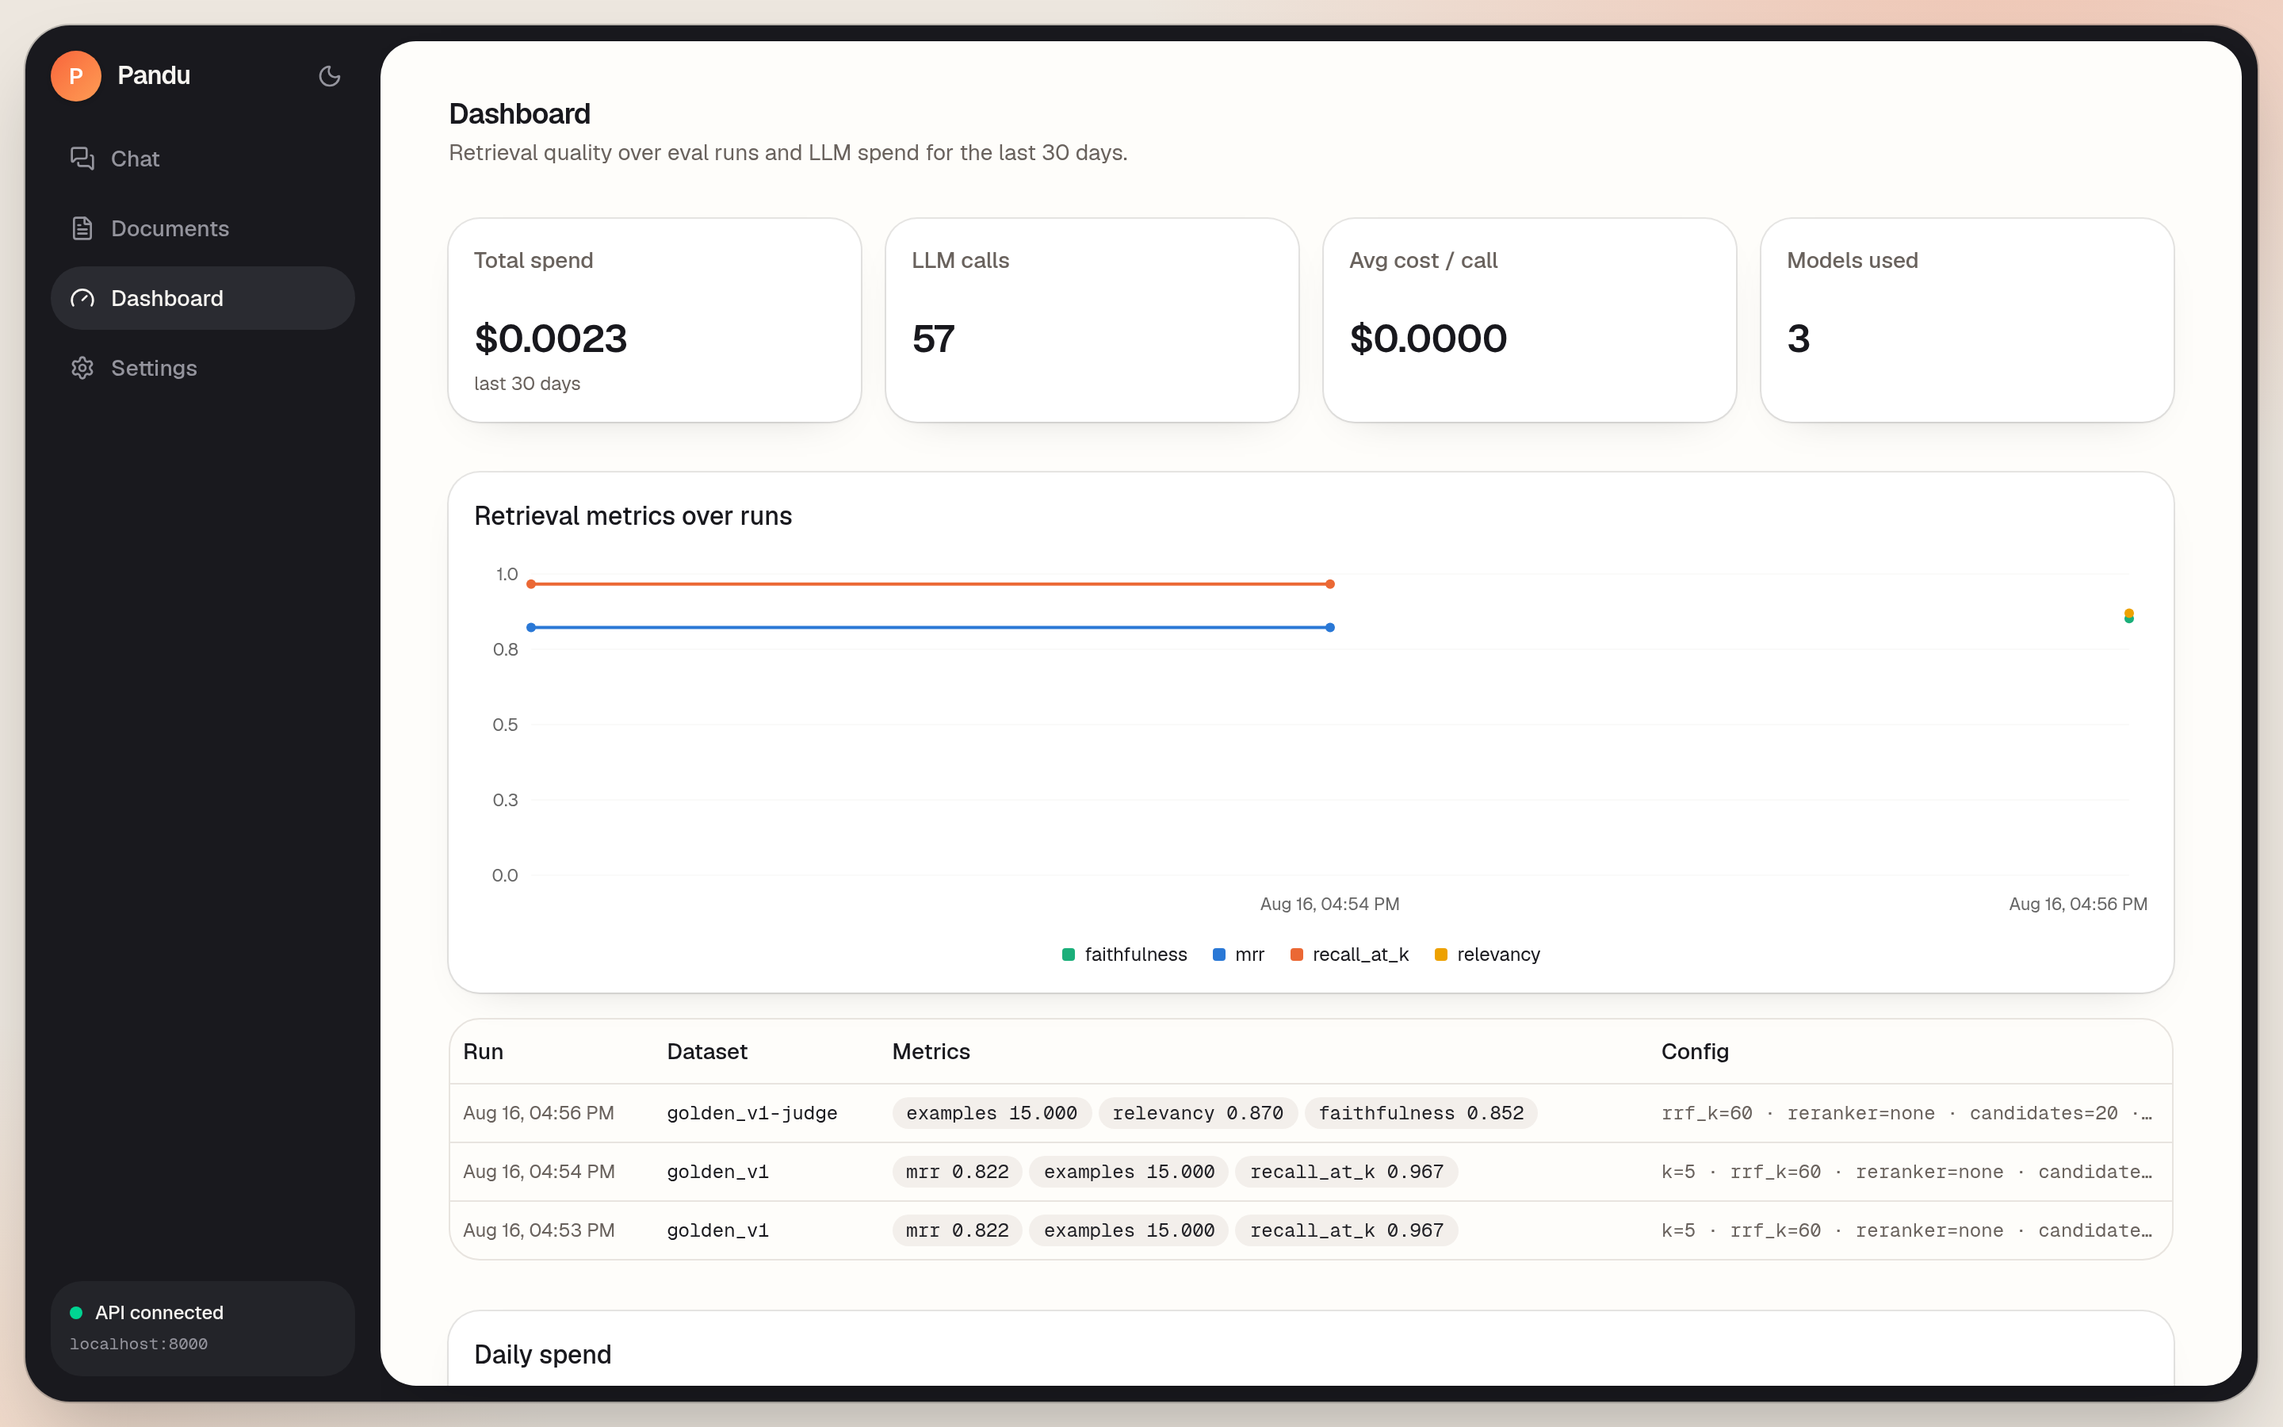
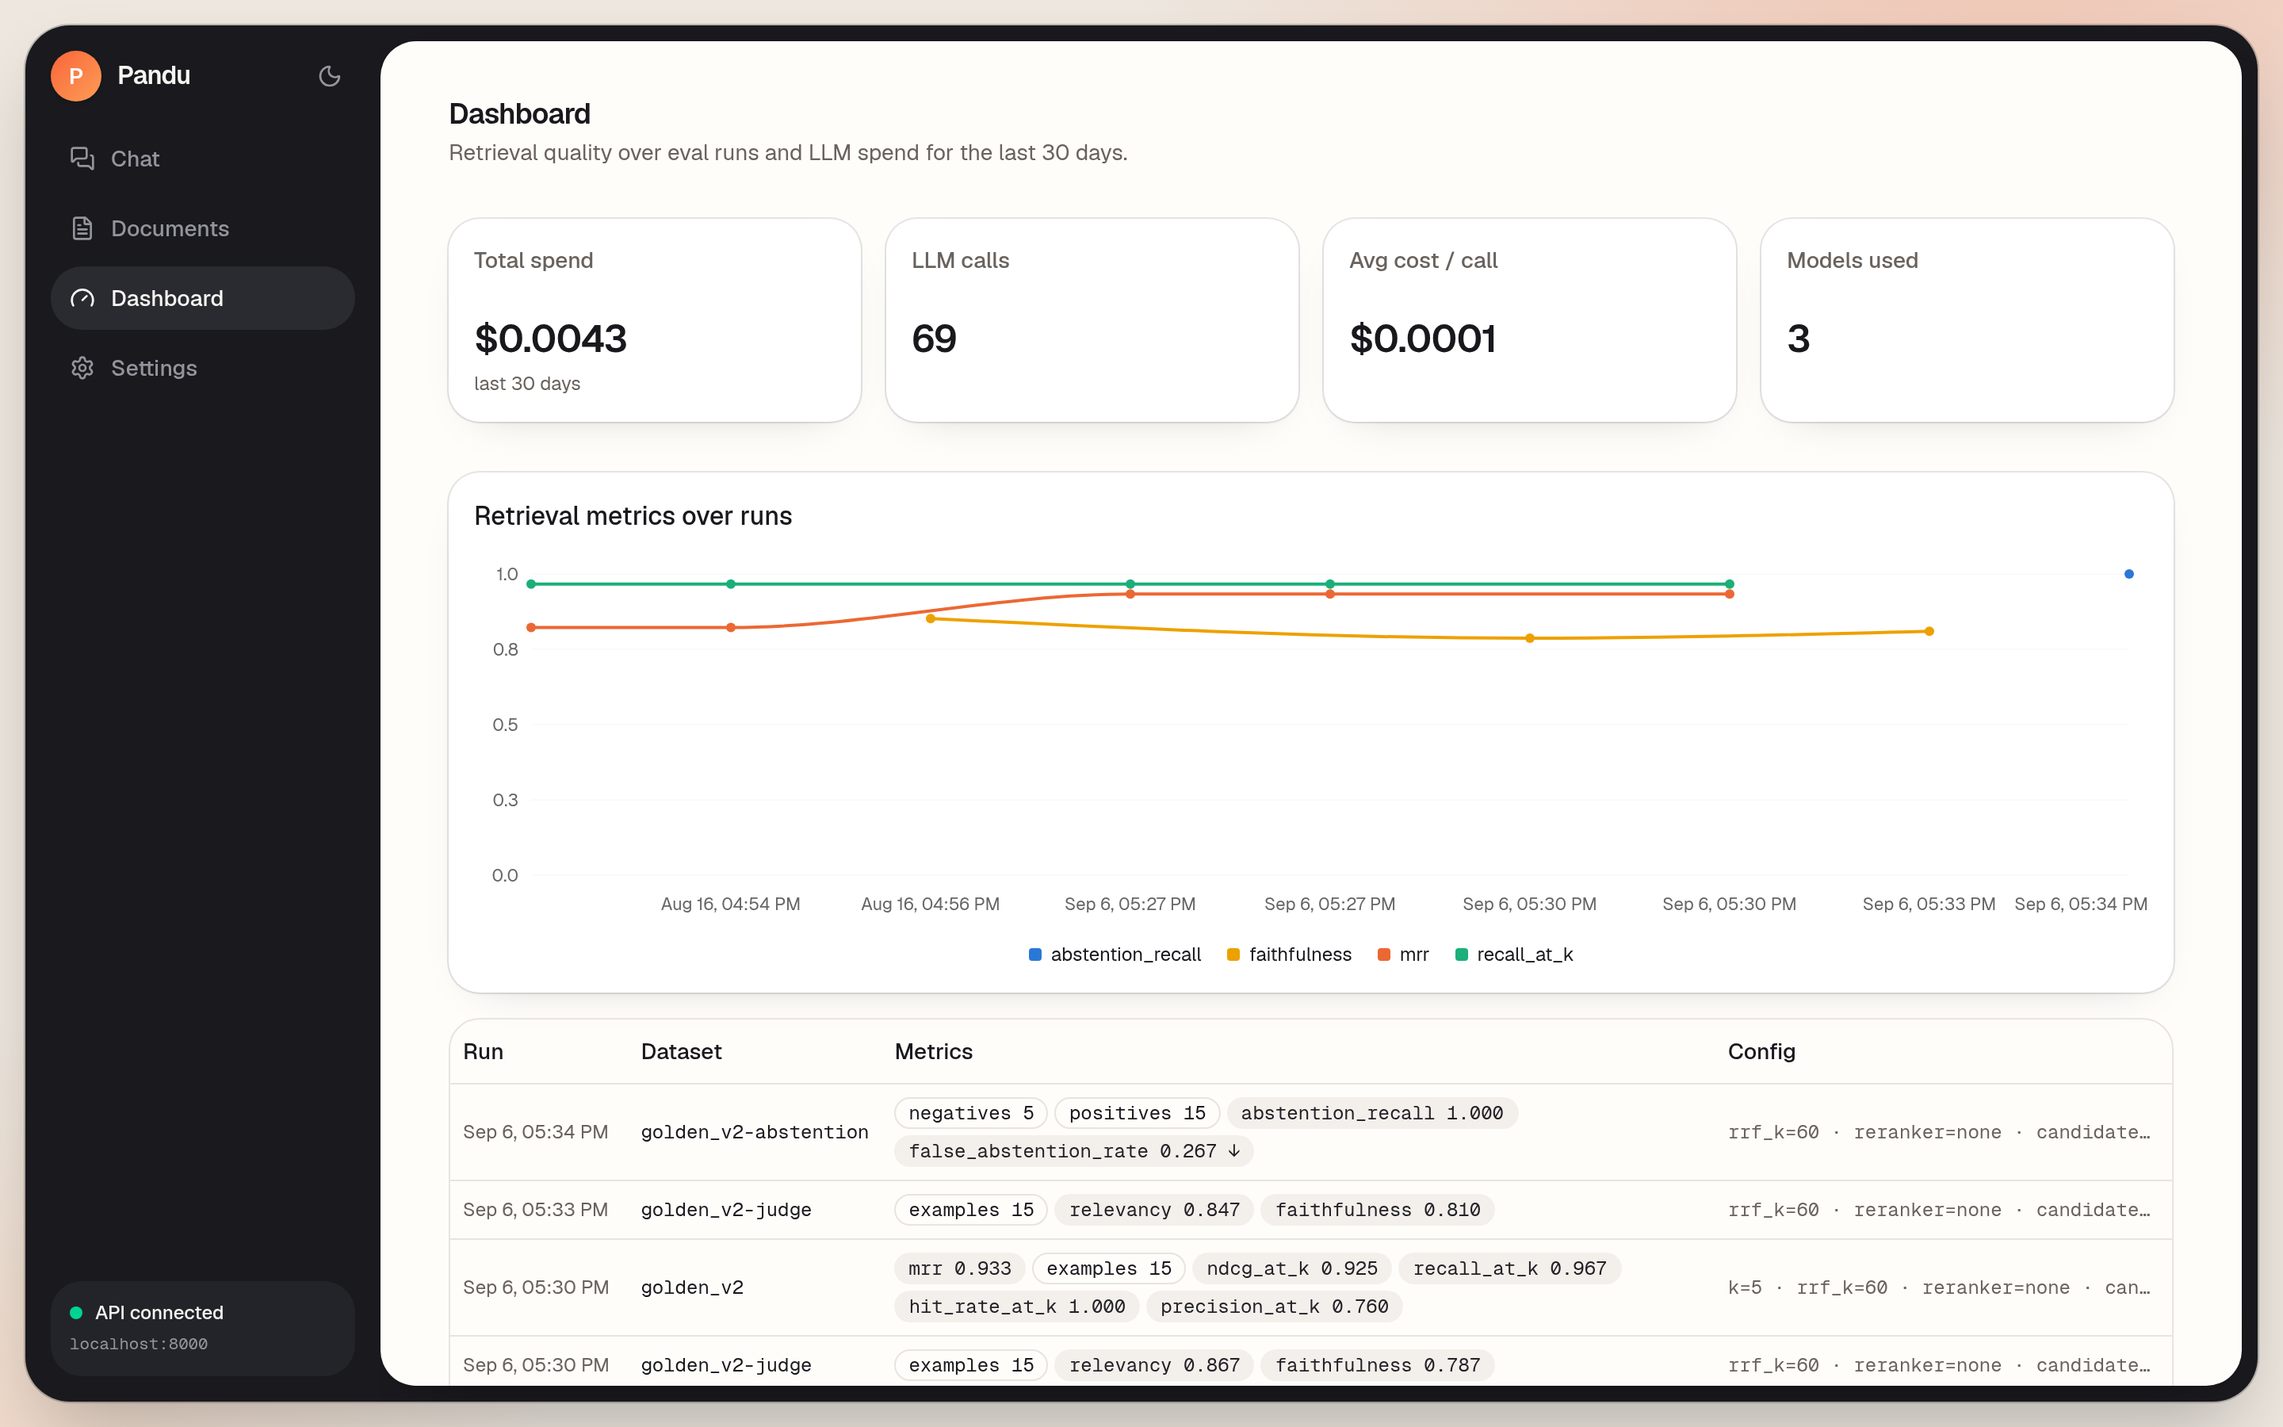
docs: refresh the screenshots and the eval numbers behind them
The chat and dashboard captures were from 2026-08-16 and showed a system two
retrieval bugs ago. Recaptured from a live local stack (playwright-core +
system Chrome driving the real UI -> API -> Postgres -> DeepSeek, no mocks),
and re-ran the eval tracks that fed the prose around them.

chat.png now shows the case ADR-015 actually fixed: a question spanning
SP 800-53 and SP 800-171 pulls four contexts across BOTH publications and the
answer composes the real control mapping (AU-01 -> 03.15.01, AU-02 ->
03.03.01, AU-09 -> 03.03.08) with inline citations. The old capture predates
the lexical fix.

dashboard.png now carries the improvement as data rather than assertion: the
trend chart spans the August golden_v1 runs (MRR 0.822) and the September
golden_v2 runs (ndcg 0.925, mrr 0.933, recall 0.967), with the abstention row
showing false_abstention_rate 0.267 down from 0.400. It reads the same
eval_runs table CI gates on. documents.png was byte-identical and is untouched;
observability.png needs the Langfuse profile up and is left for a later pass.

Re-ran the judge and abstention tracks, which the previous commit had flagged
as stale, and the results are not uniformly flattering:

  false abstention  0.400 -> 0.267   (4 of 15 wrongly declined, was 6)
  faithfulness      0.798 -> 0.810   (still FAILING the 0.85 gate)
  single-source     0.868 -> 0.870
  cross-document    0.577 -> 0.543

Better-ranked context makes the model refuse less often, but faithfulness
[…]

diff --git a/README.md b/README.md
@@ -37,14 +37,26 @@ UI → API → Postgres → DeepSeek, no mocks):
 ![Chat — streamed answer with inline citations and the retrieved-vs-cited sources panel](assets/chat.png)
 
 *A cross-document question over the NIST corpus: hybrid retrieval
-(pgvector + FTS + RRF, `gemini-embedding-001`) surfaces §4.2.3
-Reauthentication from SP 800-63B and control AU-11 from SP 800-53r5;
-`deepseek-v4-flash` answers grounded with inline [n] citations, and the
-footer shows tokens, metered cost, and latency for the call.*
+(pgvector + FTS + RRF, `gemini-embedding-001`) pulls four contexts spanning
+**both** publications — the AU control catalog from SP 800-53r5 plus the
+tailoring criteria and methodology from SP 800-171r3 — and
+`deepseek-v4-flash` composes the actual control mapping (AU-01 → 03.15.01,
+AU-02 → 03.03.01, AU-09 → 03.03.08) with inline [n] citations. The footer
+shows tokens, metered cost, and latency for the call. Composing across two
+publications is the case that
+[ADR-015](docs/adr/ADR-015-lexical-arm-ranks-not-filters.md) fixed: while the
+lexical arm was silently empty, one document tended to take every context
+slot.*
 
 | Documents — upload, parse, chunk, embed | Dashboard — eval metrics & live cost ledger |
 |---|---|
-| ![Documents page with ingestion statuses](assets/documents.png) | ![Dashboard with cost cards and daily spend](assets/dashboard.png) |
+| ![Documents page with ingestion statuses](assets/documents.png) | ![Dashboard with eval-run metrics and cost cards](assets/dashboard.png) |
+
+*The dashboard reads the same `eval_runs` table CI gates on, so the trend line
+is the real history: the August `golden_v1` runs (MRR 0.822) and the September
+`golden_v2` runs after the lexical fix (`ndcg_at_k 0.925`, `mrr 0.933`,
+`recall_at_k 0.967`), plus the abstention row where
+`false_abstention_rate 0.267 ↓` replaced the earlier 0.400.*
 
 ![Langfuse trace of a chat request — span waterfall and retrieval metadata](assets/observability.png)
 
@@ -294,7 +306,7 @@ backend:  ruff check + format --check → mypy --strict → lint-imports
           → pytest tests/contract → docker build
 frontend: biome check → tsc --noEmit → openapi client drift check
           → vitest → playwright (on compose stack) → next build
-evals:    (nightly + on-demand label) ingest corpus → rank metrics on golden set
+evals:    (manual / `run-evals` label) ingest corpus → rank metrics on golden set
           → fail if recall@5 < 0.60 (thresholds ratchet, never loosen)
           → fail on ANY per-metric regression vs the previous run (--compare)
           → config sweep: hybrid vs dense vs lexical, k=1/3/5/10 (reported, not gated)
@@ -322,17 +334,25 @@ taken while the lexical arm silently returned nothing on 14 of 20 questions,
 so "hybrid" was measuring dense-only. See
 [ADR-015](docs/adr/ADR-015-lexical-arm-ranks-not-filters.md). Precision@5
 fell 0.760 → 0.680 in the same change — the real cost of a live lexical arm.
-Abstention and judge scores below still predate the fix and are due a re-run.
 
 | Abstention (LLM-free scoring) | Score | Gate |
 |---|---|---|
 | abstention recall (negatives correctly declined) | **1.000** | ≥ 0.60 |
-| false abstention rate (answerable wrongly declined) | **0.400** ↓ | — |
+| false abstention rate (answerable wrongly declined) | **0.267** ↓ | — |
 
 | LLM-as-judge (`deepseek-v4-flash`, 15 answerable) | Score | Gate |
 |---|---|---|
-| faithfulness | **0.798** | ≥ 0.85 — **FAILING** |
+| faithfulness | **0.810** | ≥ 0.85 — **FAILING** |
 | answer relevancy | **0.847** | — |
+
+Both tracks were re-run after the lexical fix. **False abstention fell 0.400 →
+0.267** — 4 of 15 answerable questions wrongly declined instead of 6, because
+better-ranked context gives the model less reason to refuse. **Faithfulness did
+not follow: 0.798 → 0.810, still under the 0.85 gate** (and it moves ±0.02
+between runs on judge nondeterminism alone). That is worth stating plainly —
+the retrieval fix was expected to help here and essentially did not, which
+means the cross-document problem below is its own defect rather than a
+downstream symptom of the dead lexical arm.
 
 **The faithfulness gate is currently red, and it is staying red.** The
 tightening-only rule means a threshold may be raised, never lowered, so a
@@ -341,30 +361,48 @@ by example type says exactly what the bug is:
 
 | Example type | n | mean faithfulness |
 |---|---|---|
-| single-source | 12 | **0.868** (would pass) |
-| cross-document | 3 | **0.577** |
+| single-source | 11 | **0.870** (would pass) |
+| cross-document | 3 | **0.543** |
 
-Retrieving for a question that spans two publications, by `top_k`:
+Re-measured 2026-09-06 after the lexical fix (previously 0.868 / 0.577 — the
+split barely moved, which is the point: this defect is not the dead lexical
+arm). One single-source example is missing from the split because the judge
+returned an empty completion on it after four retries; three cross-document
+examples is a small enough n that individual verdicts swing hard
+(`cross-audit-53-171` scored 1.000 in this run, 0.200 for `cross-csf-800-53`),
+so read the gap as a direction, not a precise quantity.
+
+Per-document distribution of the retrieved contexts, all three
+cross-document questions, measured 2026-09-06:
 
 ```
-top_k= 5: {800-63b: 5}                        <- one document takes every slot
-top_k=10: {800-63b: 9, 800-53r5: 1}
-top_k=20: {800-63b: 13, 800-53r5: 4, 800-171r3: 3}
+cross-audit-53-171   top_k= 5: {800-53r5: 2, 800-171r3: 3}   <- both sources
+cross-csf-800-53     top_k= 5: {800-53r5: 3, csf-2.0:   2}   <- both sources
+cross-mfa-171-63b    top_k= 5: {800-63b:  5}                 <- one document
+                     top_k=10: {800-63b:  9, 800-171r3: 1}      takes every slot
 ```
 
-Chunks are scored independently with no diversity constraint, so the document
-with the strongest overlap monopolises all five context slots and the second
-source — needed to answer at all — first appears around rank 18. **Retrieval
-finds the evidence and then fails to distribute the context budget across the
-sources the question needs.**
+The monopolisation is real but **specific, not general**: two of the three now
+split cleanly across both publications, and only `cross-mfa-171-63b` starves its
+second source. SP 800-171's `§ 03.05.03 Multi-Factor Authentication` is in the
+corpus and exactly on point, but both arms rank 800-63B above it — the question
+is *about* authentication assurance levels, and 800-63B is the authentication
+document. That is a ranking failure, not a slot-allocation failure.
 
-Note what this required: `recall@5 = 0.967` is blind to it, because it credits
-sources that were found. Faithfulness caught that the answer could not
-actually be composed from what reached the prompt. Two metrics disagreeing is
-the system working — and it is the argument for the metric expansion in one
-concrete case. The fix is per-document context caps or query decomposition
-([ADR-012](docs/adr/ADR-012-retrieval-metrics-and-regression-diffing.md)),
-which is real work and is not being done under cover of a relaxed gate.
+The distinction decides the fix. **Per-document context caps were the obvious
+answer, and measuring them killed the idea**: every cap value trades recall
+(0.967 → 0.933) and hit-rate (1.000 → 0.933) away to gain that one question, and
+pulls more documents into the negatives, which pushes false abstention the wrong
+way. Rejected with the numbers in
+[ADR-015](docs/adr/ADR-015-lexical-arm-ranks-not-filters.md) rather than shipped
+on the strength of a plausible hypothesis.
+
+Note what the diagnosis required: `recall@5 = 0.967` is blind to this, because it
+credits sources that were found. Faithfulness caught that the answer could not be
+composed from what reached the prompt. Two metrics disagreeing is the system
+working. What remains is query decomposition for multi-source questions, or a
+diversity term inside the fusion score rather than a filter after it — real work,
+not being done under cover of a relaxed gate.
 
 **Read these numbers with the caveats they earn.** `recall@5 = 0.967` is the
 weakest claim in the table: 12 of the 15 answerable examples have a single
@@ -372,19 +410,20 @@ source file, so at k=5 it is close to a hit rate — "did the right document
 appear anywhere in five slots". The metrics that carry information are the
 ones that can fall:
 
-- **precision@k peaks at k=3 (0.822) and decays to 0.660 at k=10.** Past the
-  third context we are mostly feeding the model noise. Retrieving wide is
+- **precision@k peaks at k=1 (0.933) and decays to 0.540 at k=10.** Past the
+  first few contexts we are mostly feeding the model noise. Retrieving wide is
   cheap; *prompting* wide is not.
-- **recall@1 is 0.767 against recall@5 of 0.967.** The evidence is being
-  found and then ranked below position 1 — textbook conditions for reranking
-  to pay. It did not (see the sweep below), which is a measurement, not an
-  assumption.
+- **recall@1 is 0.833 against recall@5 of 0.967.** The evidence is being found
+  and then ranked below position 1 — textbook conditions for reranking to pay.
+  It did not (see the sweep below), which is a measurement, not an assumption.
+  The gap narrowed from 0.767→0.833 with the lexical fix, so there is less left
+  for a reranker to recover than there was.
 - **abstention recall of 1.000 looks perfect and is not the whole story.**
-  The system declined all 5 negatives — and *also* declined 6 of the 15
-  answerable questions (`false_abstention_rate = 0.400`). A single combined
-  abstention score would have reported this system as flawless. Reporting
-  both directions is what makes it visible, and the false-abstention rate is
-  the number to attack next.
+  The system declined all 5 negatives — and *also* declined 4 of the 15
+  answerable questions (`false_abstention_rate = 0.267`, down from 0.400 before
+  the lexical fix). A single combined abstention score would have reported this
+  system as flawless. Reporting both directions is what makes it visible, and
+  the false-abstention rate is still the number to attack next.
 
 - **Golden dataset** — `golden_v2.jsonl`: 15 answerable
   question/answer/source triples over the NIST corpus **plus 5 negatives**,
@@ -395,7 +434,9 @@ ones that can fall:
   hit-rate@k, MRR and nDCG@k run against the golden set with *no LLM at all*
   — deterministic and nearly free, so they run on every push. Generation
   quality (faithfulness, answer relevancy, context precision/recall) costs
-  tokens and runs nightly plus on a `run-evals` PR label.
+  tokens and runs on demand — `workflow_dispatch` or a `run-evals` PR label.
+  (The nightly cron is disabled: a fresh service container has no stored
+  baseline for `--compare` to diff against, so it could only ever fail.)
 - **Reported at k = 1, 3, 5, 10.** A single k hides the diagnosis: the gap
   between recall@1 and recall@5 is precisely the signal that says *retrieval
   finds it but ranks it badly*, which is the condition under which reranking
@@ -543,19 +584,18 @@ Qdrant's core API has no BM25
 
 **Next, and named by a measurement rather than a hunch:**
 
-1. **Re-measure the judge and abstention tracks.** Both predate the ADR-015
-   lexical fix, which changed what reaches the LLM on most questions. The
-   0.798 faithfulness figure and the 0.400 false-abstention rate are stale
-   until re-run — and the cross-document diagnosis below depends on them.
-2. **Cross-document faithfulness (0.577 vs 0.868 single-source).** Per-document
-   context caps were the obvious fix and were **measured and rejected** — see
-   ADR-015: every cap value trades recall and hit-rate away to fix one of three
-   cross-document questions. This is a ranking problem, not a slot-allocation
-   problem, so the candidates are query decomposition for multi-source
-   questions, or a diversity term inside the fusion score rather than a filter
-   after it.
-3. **Reduce the 0.400 false-abstention rate.** The system declines 6 of 15
-   answerable questions — safe, but not useful.
+1. **Faithfulness, still 0.810 against a 0.85 gate.** Re-measured after the
+   lexical fix and it barely moved (0.798 → 0.810), which rules out the dead
+   lexical arm as the cause and leaves the cross-document case above as the
+   real one. Per-document caps are measured and rejected (ADR-015); what is
+   left is query decomposition for multi-source questions, or a diversity term
+   inside the fusion score rather than a filter applied after it.
+2. **Reduce the 0.267 false-abstention rate.** Down from 0.400 with the
+   lexical fix — the system still declines 4 of 15 answerable questions, which
+   is safe but not useful.
+3. **Re-run the reranker sweep.** Those rows were measured against a
+   dense-only baseline; the reranker's value proposition changes now that the
+   unreranked baseline is stronger (nDCG 0.897 → 0.920).
 4. **Per-example regression diffing.** The current diff is per-metric; it sees
    that something moved, not which question broke.
 
